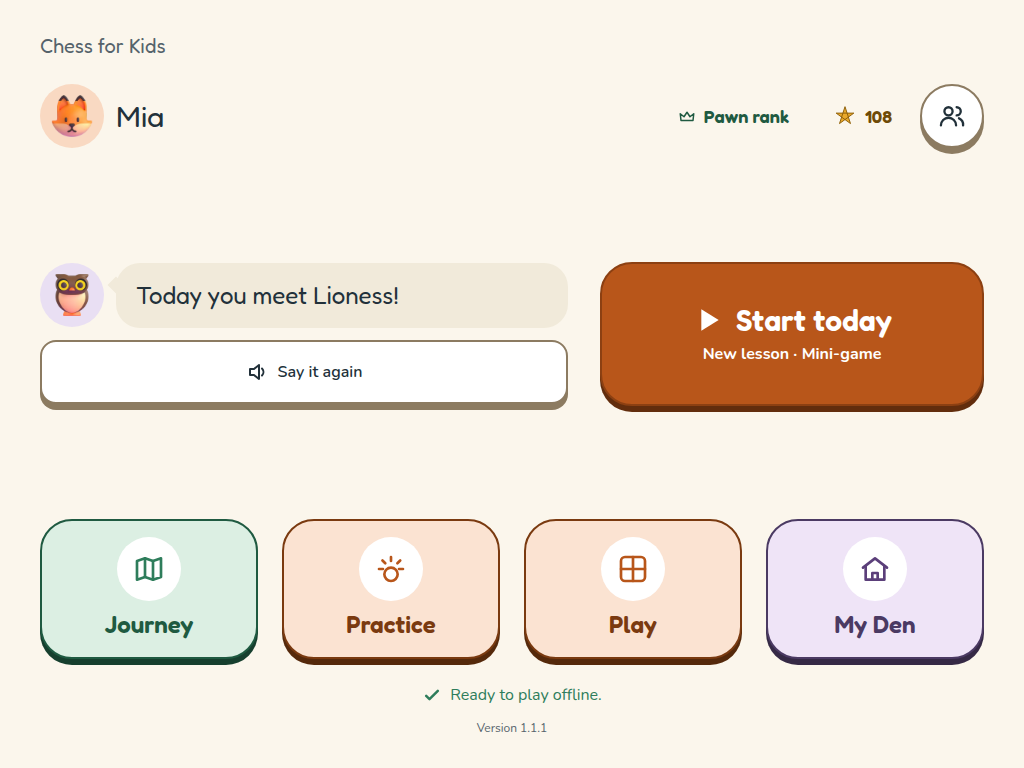
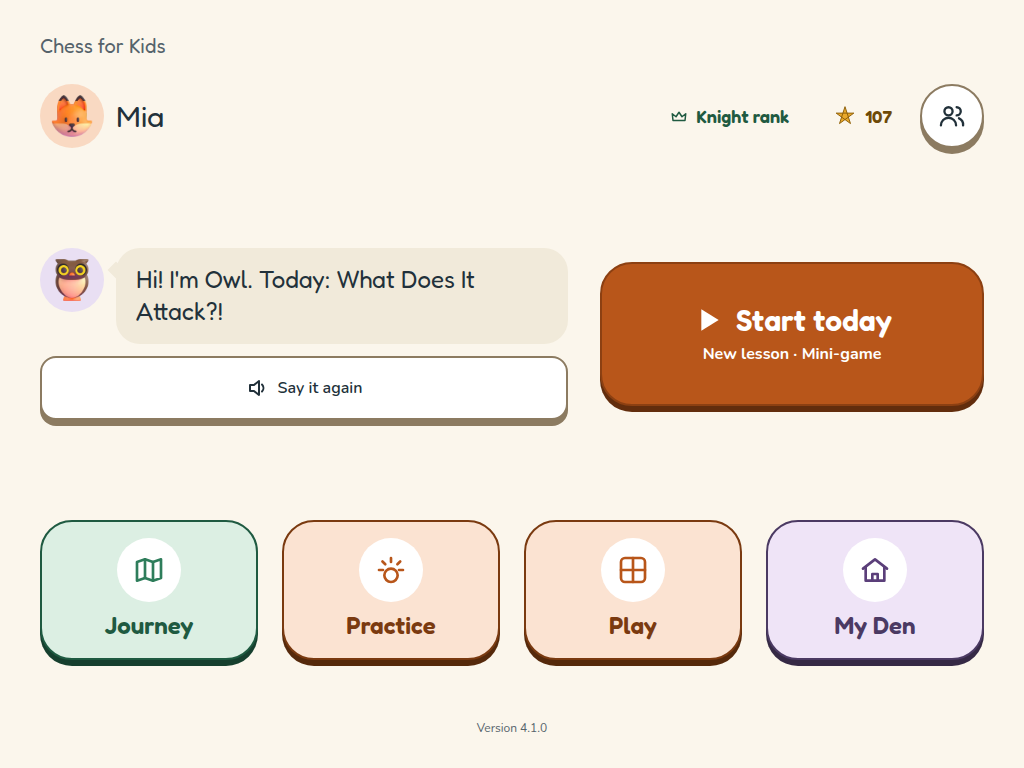
M10.4: retake README screenshots (F9)
Home, Journey, lesson (queen Try step) and parent area from the
production build at 1024x768 with a seeded mid-progress profile (Mia,
fox; Worlds 1-2 done, ~107 stars, Knight rank, World 3 lesson today).
README: lesson alt text "Lesson try step".

Claude-Session: https://claude.ai/code/session_01RTqFExH8VauenXwpQFbQm6

diff --git a/README.md b/README.md
@@ -46,7 +46,7 @@ After the Basics, three paths continue: **Openings**, **Tactics**, and **Checkma
 
 | A lesson | Parent area |
 |---|---|
-| ![Lesson story step](docs/images/lesson.png) | ![Parent area](docs/images/parent-area.png) |
+| ![Lesson try step](docs/images/lesson.png) | ![Parent area](docs/images/parent-area.png) |
 
 ## Run it yourself
 
